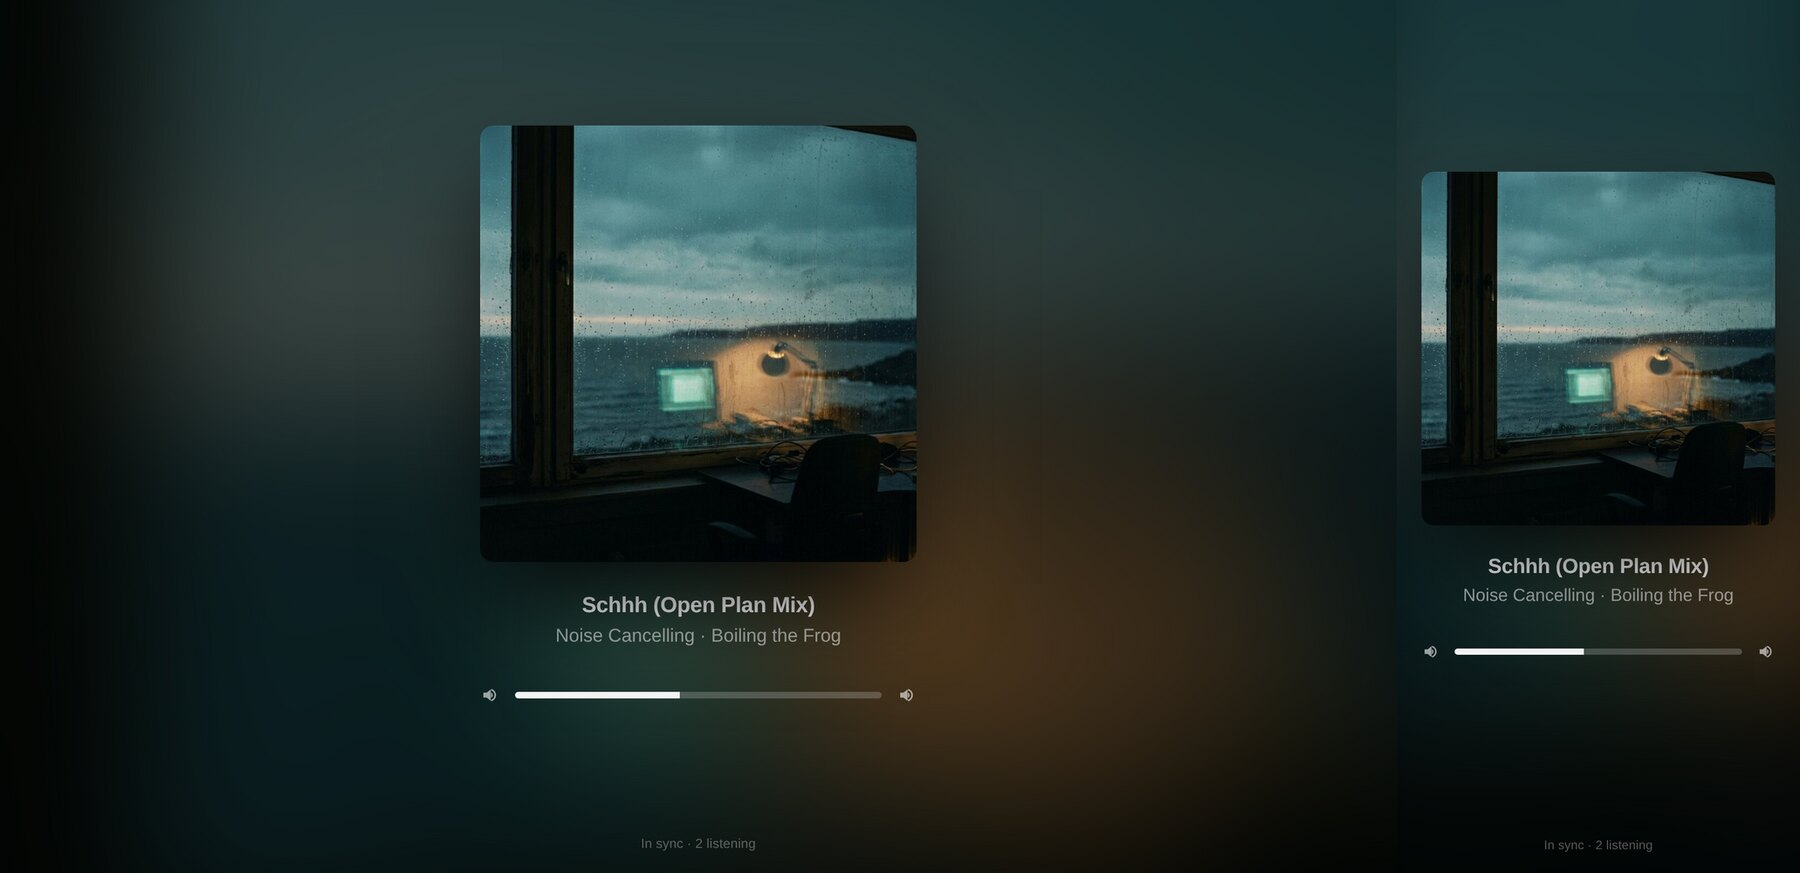
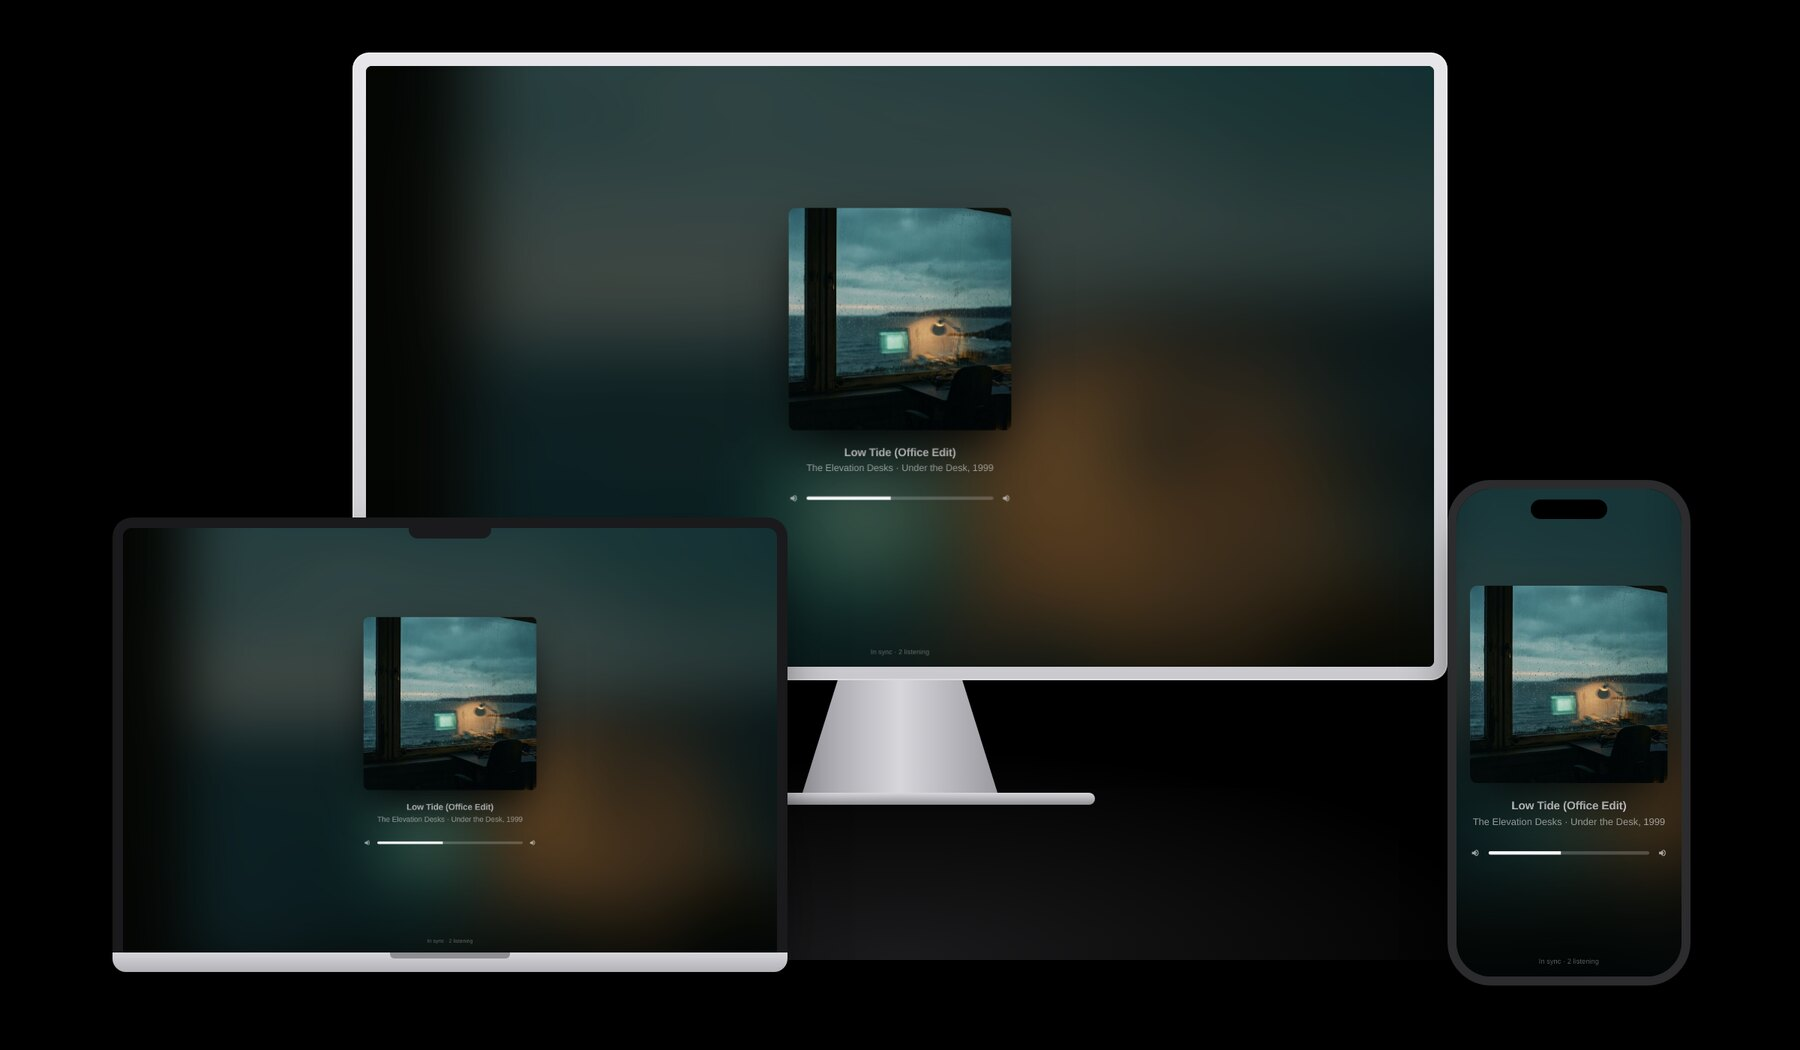
README: the listener page as a product family
The screenshot is now three captures, a desktop display, a laptop and a
phone, each at its own size, framed as devices and lined up on black
the way a product family is shown. All three play "Low Tide (Office
Edit)", the record from the landing page; the fake server used for the
captures no longer alternates tracks unless asked.

Claude-Session: https://claude.ai/code/session_01NiVUN2xRcw2KYpxBRwL6Mm

diff --git a/README.md b/README.md
@@ -99,7 +99,7 @@ same dependencies and copies the command into `~/.local/bin`.
 
 ## Let colleagues in
 
-![The listener page on a laptop and on a phone: the cover art large with its colours blurred into the background, the track and artist beneath, one volume slider between two speaker glyphs, and a line reading "In sync · 2 listening"](docs/img/listener.jpg)
+![The listener page on a desktop display, a laptop and a phone, lined up on black: on each, the cover art large with its colours blurred into the background, "Low Tide (Office Edit)" by The Elevation Desks beneath, one volume slider between two speaker glyphs, and a line reading "In sync · 2 listening"](docs/img/listener.jpg)
 
 Colleagues open the address in any browser, tap the artwork and put on their
 headphones. The page shows the cover art large, the track and artist
